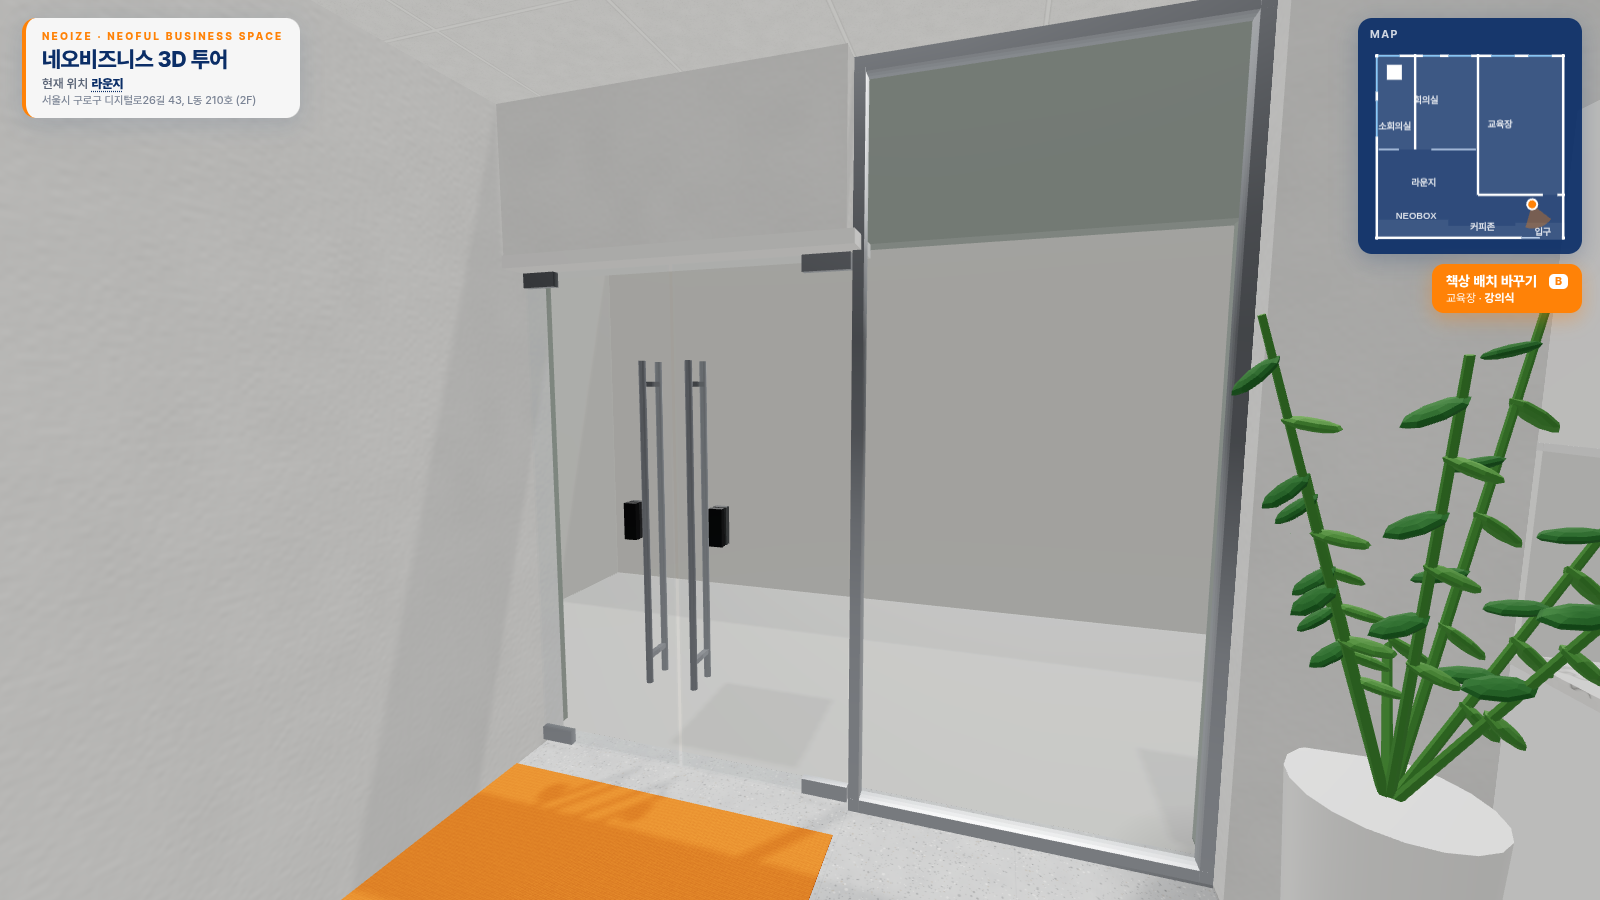
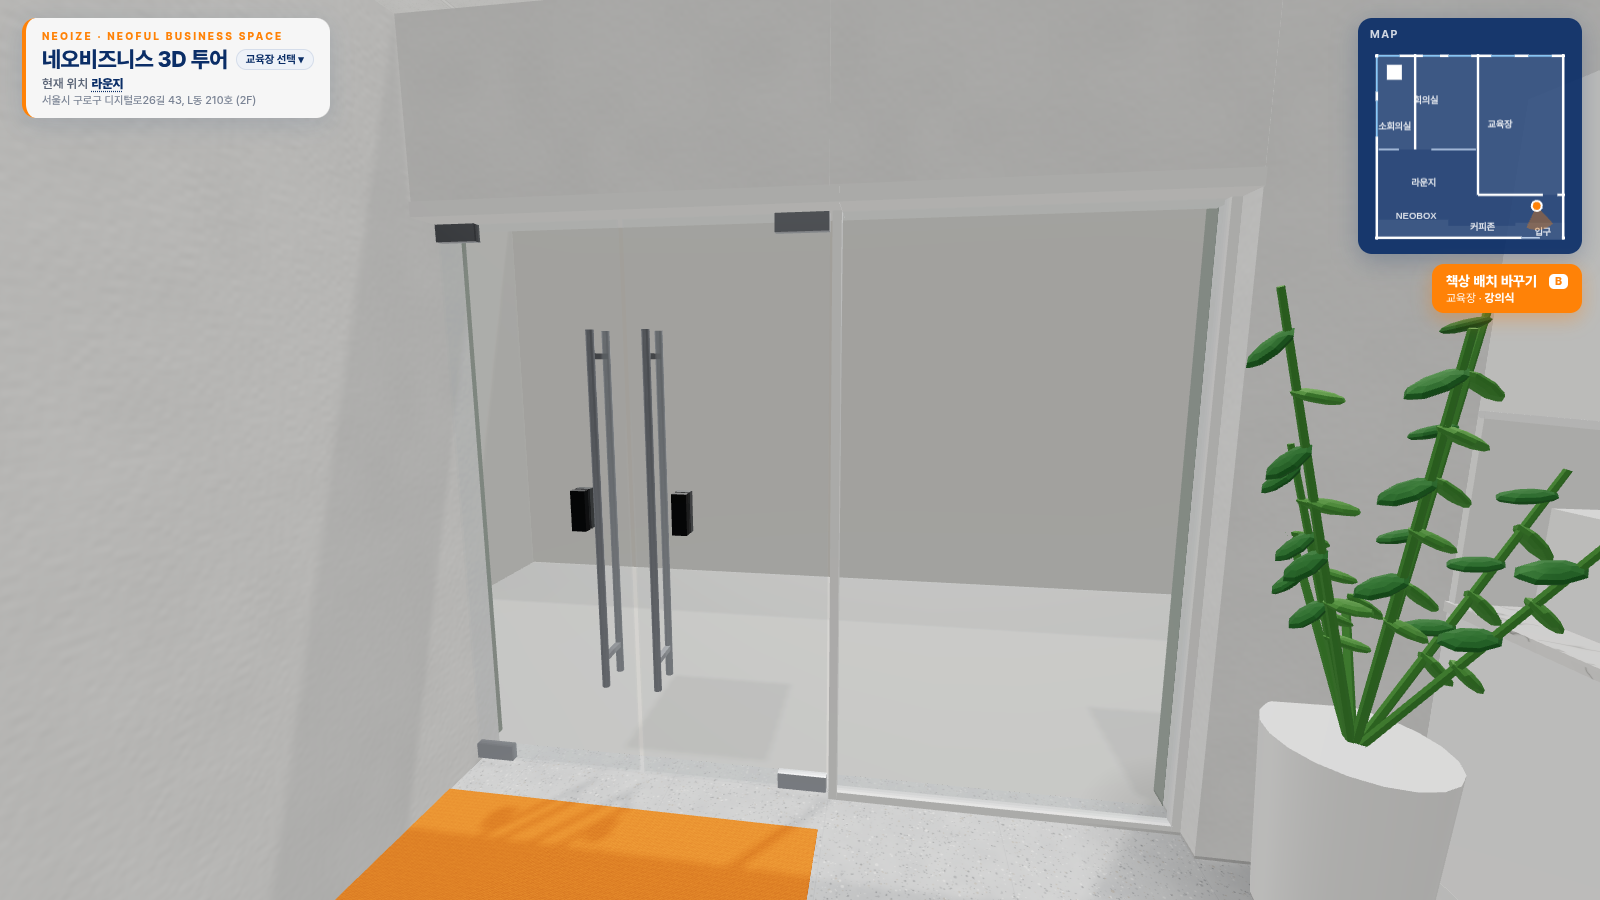
대전 교육장 3D 투어(입구 통로+교육장), 서울 입구 고정유리를 문과 같은 헤더로, 장비 안내 카드를 장비 바로 위에

diff --git a/sites/daejeon/layout.js b/sites/daejeon/layout.js
@@ -1,25 +1,118 @@
 /* =====================================================================
-   대전 교육장 — 공간 설정 파일 (sites/daejeon/layout.js)  ※ 준비 중(임시 빈 공간)
-   사진·도면을 받으면 서울 구로(sites/seoul/layout.js)와 같은 형식으로 채워 주세요.
-   기준점(0,0) = 건물 왼쪽 위(북서쪽) 바깥 모서리, x = 동쪽, z = 남쪽, 단위 m
+   대전 교육장 — 공간 설정 파일 (sites/daejeon/layout.js)
+   사용자 스케치(11/19) 기준: 책상 1.8m ≈ 36px → 약 0.05 m/px.
+   기준점(0,0) = 스케치 px (122, 147). x = 동쪽, z = 남쪽, 단위 m. rot: 0 = 북쪽, 90 = 서쪽, 180 = 남쪽, -90 = 동쪽.
+   - 교육장(빨간 선): x 2.75–17.95, z 0–9.25 (15.2 × 9.25m, 천장 2.7m)
+   - 입구·통로(흰 선, 교육장 서쪽): x 0–2.75, z 2.5–9.25 — 투어는 여기서 시작, 서쪽 벽 문으로 교육장에 들어감
+   - 스크린은 동쪽 벽 → 책상은 동쪽을 바라봄
+   ※ 치수는 스케치 비율로 잡은 추정값이에요. 실측값을 받으면 숫자만 바꾸면 됩니다.
    ===================================================================== */
 window.LAYOUT = {
-  building: { name: '대전 교육장', width: 10, depth: 8, ceiling: 2.7, eye: 1.6, wall: { exterior: 0.24, interior: 0.14, thick: 0.30 } },
+  building: { name: '대전 교육장', width: 17.95, depth: 9.25, ceiling: 2.7, eye: 1.6, wall: { exterior: 0.24, interior: 0.14, thick: 0.30 } },
   photoDir: 'sites/daejeon/photos/',
+
   rooms: [
-    { id:'entrance', name:'대전 교육장', en:'Coming soon', rect:[0, 0, 10, 8], floor:'floor',
-      label:[5, 4], labelY:1.8, jump:{ x:5, z:6.6, look:[5, 1] },
-      card:{ photos:[], desc:'대전 교육장 3D 투어는 준비 중이에요. 사진과 도면을 받으면 실제 공간으로 만들어 드릴게요.' } }
+    { id:'entrance', name:'입구', en:'Entrance', small:true, rect:[0, 2.5, 2.75, 9.25], floor:'floor',
+      label:[1.375, 6.4], jump:{ x:1.0, z:4.6, look:[2.75, 8.0] },
+      card:{ photos:[], desc:'대전 교육장 입구와 통로예요. 통로 오른쪽(동쪽) 유리 파티션의 문으로 교육장에 들어가요.' } },
+    { id:'classroom', name:'교육장', en:'Education Center', rect:[2.75, 0, 17.95, 9.25], floor:'floor',
+      label:[10.4, 4.6], jump:{ x:4.2, z:7.75, look:[17.9, 4.2] },
+      card:{ photos:[],
+             desc:'대전 교육장. 동쪽 벽에 천장형 전동 스크린과 양옆 유리 화이트보드, 천장 빔프로젝터가 있고, 남쪽은 큰 창문이에요. 흰 접이식 책상 4열 × 4개, 메시 등받이 의자. 북서쪽 모서리에 커피머신·정수기가 있는 수납장이 있어요.',
+             services:['전동 스크린','빔프로젝터','유리 화이트보드','스피커','냉난방','커피머신','정수기'] } }
   ],
+
   start: { mode:'orbit', room:'entrance' },
+
   walls: [
-    { from:[0, 0],  to:[10, 0], type:'solid', outer:true, sign:{ text:'준비 중 · COMING SOON', at:5, y:1.6, size:0.22 } },
-    { from:[0, 0],  to:[0, 8],  type:'solid', outer:true },
-    { from:[0, 8],  to:[10, 8], type:'solid', outer:true },
-    { from:[10, 0], to:[10, 8], type:'solid', outer:true }
+    // 바깥벽 — 북쪽 (교육장 구간만, 북서쪽 x0–2.75 는 다른 공간이라 막음 → columns)
+    { from:[2.75, 0], to:[17.95, 0], type:'solid', outer:true },
+    // 바깥벽 — 서쪽(입구 통로): 유리 양문 입구
+    { from:[0, 2.5], to:[0, 9.25], type:'solid', outer:true,
+      openings:[ { at:3.7, width:1.6, door:'glass', double:true, entrance:true, frame:'white' } ] },
+    // 바깥벽 — 남쪽: 초록 = 창문 4개 (흰 프레임 큰 여닫이창)
+    { from:[0, 9.25],     to:[4.15, 9.25],  type:'solid',  outer:true },
+    { from:[4.15, 9.25],  to:[6.15, 9.25],  type:'window', outer:true, style:'tall', sill:0.75, head:2.45, bay:1.0, blind:0 },
+    { from:[6.15, 9.25],  to:[7.0, 9.25],   type:'solid',  outer:true },
+    { from:[7.0, 9.25],   to:[8.9, 9.25],   type:'window', outer:true, style:'tall', sill:0.75, head:2.45, bay:1.0, blind:0 },
+    { from:[8.9, 9.25],   to:[12.0, 9.25],  type:'solid',  outer:true },
+    { from:[12.0, 9.25],  to:[13.9, 9.25],  type:'window', outer:true, style:'tall', sill:0.75, head:2.45, bay:1.0, blind:0 },
+    { from:[13.9, 9.25],  to:[14.7, 9.25],  type:'solid',  outer:true },
+    { from:[14.7, 9.25],  to:[16.65, 9.25], type:'window', outer:true, style:'tall', sill:0.75, head:2.45, bay:1.0, blind:0 },
+    { from:[16.65, 9.25], to:[17.95, 9.25], type:'solid',  outer:true },
+    // 바깥벽 — 동쪽: 스크린 벽, 남쪽 끝에 문
+    { from:[17.95, 0], to:[17.95, 9.25], type:'solid', outer:true,
+      openings:[ { at:7.35, width:0.95, door:'wood', frame:'white', hinge:'end', swing:-80 } ] },
+    // 교육장 서쪽 벽: 북쪽 끝은 벽, 그 아래는 반투명 유리 슬라이딩 파티션(북서쪽 통로 개구부 + 남쪽 끝 문)
+    { from:[2.75, 0], to:[2.75, 2.5], type:'solid' },
+    { from:[2.75, 2.5], to:[2.75, 9.25], type:'glass', style:'band', band:[0.1, 2.3], bay:1.0,
+      openings:[ { at:2.55, width:0.9 },                                             // 북서쪽 개구부(통로 쪽)
+                 { at:7.2, width:1.0, door:'frameless', hinge:'start', swing:88 } ] }  // 교육장 문 (스케치 y285–315): 북쪽 경첩, 교육장 안으로 88° 열려 통로를 막지 않음
   ],
-  columns: [],
-  ceiling: { panels: [ { rect:[0, 0, 10, 8], nx:3, nz:2 } ], strips: [], projectors: [], downlights: [], aircon: [] },
-  equipment: [],
-  furniture: []
+
+  // 막힌 덩어리: 북서쪽 다른 공간, 남쪽 벽 흰 기둥, 남서쪽 모서리 흰 사각 기둥
+  columns: [
+    { rect:[0, 0, 2.75, 2.5] },
+    { rect:[9.9, 8.8, 11.05, 9.13] },
+    { rect:[2.82, 8.65, 3.3, 9.13] }
+  ],
+
+  ceiling: {
+    panels: [ { rect:[2.75, 0, 17.95, 9.25], nx:6, nz:3 }, { rect:[0, 2.5, 2.75, 9.25], nx:1, nz:2 } ],   // 사각 매입 LED 패널
+    strips: [],
+    projectors: [ { x:10.6, z:4.2, aim:[17.6, 4.2], drop:0.3, color:'white', label:'빔프로젝트' } ],
+    downlights: [],
+    aircon: [[6.6, 4.6, 0.9], [13.6, 4.6, 0.9]]   // 천장 카세트 에어컨 2대
+  },
+
+  speakers: [   // 스크린 쪽 양옆 벽(북·남) 높은 곳
+    { x:16.9, z:0.24, rot:180 },
+    { x:16.9, z:9.01, rot:0 }
+  ],
+
+  /* 교육장 책상 배치 (책상 배치 바꾸기 버튼 / B 키). 스크린이 동쪽이라 책상은 rot:-90(동쪽을 봄) */
+  deskLayouts: {
+    start: 0,
+    list: [
+      { id:'lecture', name:'강의식', items:[
+        // 스케치: 4열 × 흰 접이식 책상 4개(1.8×0.5m) 이어 붙임, 책상마다 의자 2개(서쪽에서 동쪽을 봄) = 32석
+        { type:'array', xs:[8.35, 10.375, 12.375, 14.475], zs:[1.95, 3.75, 5.55, 7.35],
+          item:{ type:'deskPair', w:1.8, d:0.5, chairs:2, casters:true, tag:true, chairBase:'silver', rot:-90 } }
+      ] },
+      { id:'group', name:'조별', items:[
+        // 책상 2개를 붙인 섬(긴 변이 스크린 방향), 양쪽에 2명씩 = 9섬 × 4명 = 36석
+        { type:'array', xs:[6.9, 10.0, 13.1], zs:[2.0, 4.6, 7.2], item:{ type:'island', len:1.8, dd:0.5, perSide:2, basket:true, tents:true, rot:90 } }
+      ] }
+    ]
+  },
+
+  /* 장비 안내(마우스를 올리면 안내 카드) — '(예: …) — 수정 필요' 는 예시 문구예요 */
+  equipment: [
+    { id:'dj_projector', name:'빔프로젝트', room:'교육장', box:[10.3, 3.9, 10.9, 4.5, 2.15, 2.7],
+      lines:['연결 케이블: (예: HDMI) — 수정 필요', '리모컨 위치: (예: 수납장 위) — 수정 필요', '사용 방법: (예: 전원 → 입력 선택) — 수정 필요'] },
+    { id:'dj_screen', name:'전동 스크린', room:'교육장', box:[17.4, 2.9, 17.8, 5.5, 1.05, 2.7], lines:['내리기/올리기: (예: 벽 스위치) — 수정 필요'] },
+    { id:'dj_board', name:'유리 화이트보드', room:'교육장', boxes:[[17.65, 1.4, 17.86, 2.9, 0.8, 2.2], [17.65, 5.5, 17.86, 7.0, 0.8, 2.2]], lines:['마커·지우개: (예: 레지 위 비치) — 수정 필요'] },
+    { id:'dj_speaker', name:'스피커', room:'교육장', boxes:[[16.6, 0.1, 17.2, 0.5, 2.2, 2.7], [16.6, 8.75, 17.2, 9.15, 2.2, 2.7]], lines:['음량 조절: (예: 앰프 위치) — 수정 필요', '마이크: (예: 무선 마이크) — 수정 필요'] },
+    { id:'dj_ac', name:'에어컨', room:'교육장', boxes:[[6.1, 4.1, 7.1, 5.1, 2.5, 2.75], [13.1, 4.1, 14.1, 5.1, 2.5, 2.75]], lines:['리모컨/조작: (예: 벽 컨트롤러) — 수정 필요'] },
+    { id:'dj_coffee', name:'커피머신', room:'교육장', box:[4.58, 0.12, 4.92, 0.64, 0.85, 1.42], label:true, labelAt:[4.75, 1.5, 0.72], lines:['사용 방법: (예: 컵 올리고 버튼) — 수정 필요'] },
+    { id:'dj_ice', name:'얼음/전자레인지', room:'교육장', box:[4.0, 0.12, 4.5, 0.64, 0.85, 1.2], label:true, labelAt:[4.25, 1.3, 0.72], lines:['사용 방법: 예시 — 수정 필요'] },
+    { id:'dj_water', name:'정수기', room:'교육장', box:[3.15, 0.12, 3.45, 0.64, 0.85, 1.4], label:true, labelAt:[3.3, 1.5, 0.72], lines:['냉수·온수: (예: 온수 잠금 버튼) — 수정 필요'] },
+    { id:'dj_clock', name:'디지털 시계', room:'교육장', box:[3.8, 0.1, 4.3, 0.2, 1.85, 2.15], lines:['수납장 위 벽 LED 시계'] }
+  ],
+
+  furniture: [
+    /* --- 스크린 벽(동쪽): 천장형 전동 스크린 + 양옆 작은 유리 화이트보드 --- */
+    { type:'ceilingScreen', x:17.6, z:4.2, w:2.4, h:1.45, rot:90 },
+    { type:'whiteboard', x:17.81, z:2.15, w:1.3, rot:90, style:'glass' },
+    { type:'whiteboard', x:17.81, z:6.25, w:1.3, rot:90, style:'glass' },
+
+    /* --- 북서쪽 모서리: 흰 낮은 수납장(커피머신·얼음/전자레인지·정수기) + LED 시계 + 선풍기 + 휴지통 --- */
+    { type:'coffeeCabinet', x:4.05, z:0.37, w:2.0, rot:180 },
+    { type:'ledClock', x:4.05, z:0.13, y:1.85, rot:180 },
+    { type:'standFan', x:5.45, z:0.55, rot:180 },
+    { type:'bin', x:5.95, z:0.35 },
+
+    /* --- 입구 통로 --- */
+    { type:'mat', x:0.75, z:4.5, w:0.9, d:1.4, color:'orange' }
+  ]
 };

diff --git a/sites/sites.js b/sites/sites.js
@@ -7,8 +7,8 @@ window.SITES = [
   { id:'seoul',   name:'서울 구로', sub:'Neoful Business Space', ready:true,
     title:'네오비즈니스 3D 투어', brand:'NEOIZE · NEOFUL BUSINESS SPACE', addr:'서울시 구로구 디지털로26길 43, L동 210호 (2F)',
     desc:'교육장 55㎡ · 30명 / 회의실 23㎡ · 12명 / 소회의실 · NEOBOX · 라운지', thumb:'shot_plan.png' },
-  { id:'daejeon', name:'대전 교육장', sub:'Daejeon Education Center', ready:false,
-    title:'대전 교육장 3D 투어', brand:'NEOIZE · DAEJEON', addr:'대전 (주소 준비 중)', desc:'사진·도면 반영 후 공개 예정' },
+  { id:'daejeon', name:'대전 교육장', sub:'Daejeon Education Center', ready:true,
+    title:'대전 교육장', brand:'NEOIZE · DAEJEON EDUCATION CENTER', addr:'대전 교육장', desc:'교육장 1실 · 책상 4열(32석 배치) · 전동 스크린 · 빔프로젝터', thumb:'shot_dj_plan.png' },
   { id:'busan',   name:'부산 교육장', sub:'Busan Education Center', ready:false,
     title:'부산 교육장 3D 투어', brand:'NEOIZE · BUSAN', addr:'부산 (주소 준비 중)', desc:'사진·도면 반영 후 공개 예정' }
 ];

diff --git a/index.html b/index.html
@@ -178,7 +178,7 @@ a.pk-card:hover{transform:translateY(-4px);box-shadow:0 16px 36px rgba(11,46,103
   </div>
 </aside>
 <!-- 교육장 목록: sites/sites.js / 교육장별 공간 설정: sites/<id>/layout.js (치수·가구 배치는 거기서 수정) -->
-<script src="sites/sites.js?v=11191500"></script>
+<script src="sites/sites.js?v=11191520"></script>
 <script type="importmap">{"imports":{"three":"./lib/three.module.min.js","three/addons/":"./lib/addons/"}}</script>
 <script type="module">
 const V = '11191500', SITES = window.SITES || [], q = new URLSearchParams(location.search);

diff --git a/수정방법.md b/수정방법.md
@@ -7,6 +7,8 @@
   - `sites/<id>/layout.js` : 교육장별 공간 설정(아래 설명은 모두 이 파일 기준). 서울 구로는 `sites/seoul/layout.js`.
   - `app.js`, `textures.js` : 모든 교육장이 같이 쓰는 3D 엔진 — 여기를 고치면 세 곳 모두 바뀌어요.
   - 방 카드 사진 폴더는 layout 의 `photoDir`(기본 `photos/`).
+- 대전 교육장(`sites/daejeon/layout.js`): 스케치 비율(약 0.05 m/px)로 잡은 추정 치수 — 교육장 x2.75–17.95, z0–9.25(15.2×9.25m), 서쪽 입구 통로 x0–2.75, z2.5–9.25. 스크린은 동쪽 벽, 책상 4열×4개(강의식 32석)/조별 배치. 실측값·주소를 받으면 숫자와 `sites/sites.js` 의 addr 만 바꾸면 돼요.
+- 장비 안내 카드는 마우스(걷기 중엔 화면 가운데 조준점)가 닿은 장비 상자 윗면 바로 위에 떠요(이름표가 있으면 그 위).
 - 교육장 추가하기: ① `sites/새id/layout.js` 를 서울 파일을 복사해 만들고 ② `sites/sites.js` 에 `{ id:'새id', name, sub, ready:true, title, brand, addr, desc, thumb }` 한 줄 추가 ③ index.html·app.js 의 `?v=` 숫자 올리기.
 
 # 네오비즈니스 3D 투어 — 수정 방법
